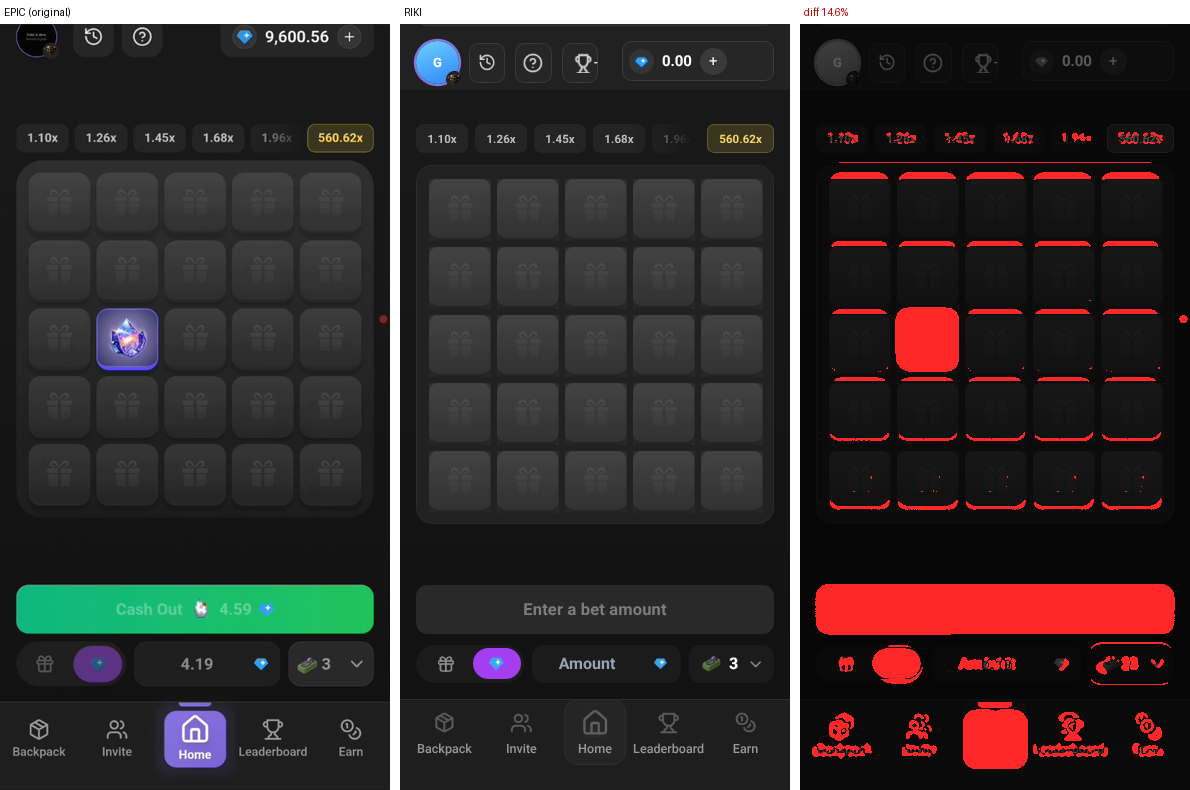
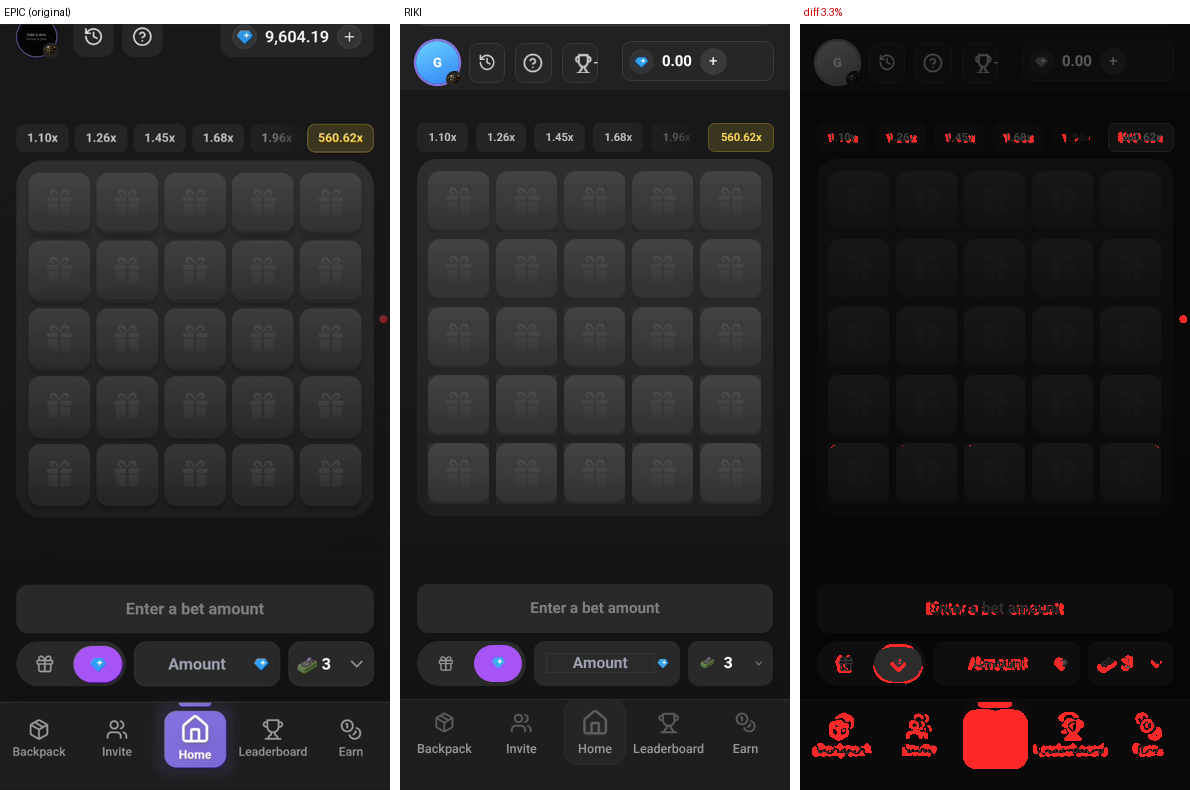
Mines UI 409.mp4 kadrlaridan qayta qurildi: plitkalar/kristal/mina/urilish PNG, qizil va yashil nur kadrlardan (piksel farqi), chiplar, tugma holatlari (Enter a bet amount → Tap a cell → Cashout 0.00 → Cash Out), katakka bosish raundni boshlaydi, minalar soni — tizim ro'yxati, urilish animatsiyasi k
Claude-Session: https://claude.ai/code/session_01849NscG7Rx8mj8t26y6oDr

diff --git a/js/screens.js b/js/screens.js
@@ -1340,7 +1340,7 @@ document.querySelectorAll('.demo').forEach(e => e.textContent = 'DEMO');
 // =====================================================================
 rkSetSkin(); rkResize(); netInit();
 setTimeout(() => $id('splash').classList.add('off'), 900);
-setTimeout(() => $id('splash').remove(), 1400);
+setTimeout(() => { const sp = $id('splash'); sp && sp.remove() }, 1400);
 renderTasks();
 setInterval(() => {
   const r = $id('tvRes');
@@ -1795,35 +1795,60 @@ function betBar3(key, extra, ph) {
 }
 const GBOX = '<svg viewBox="0 0 24 24" class="gbx"><path d="M3 9h18v4H3zM5 13h14v8H5zM12 9v12M12 9c-2-4-6-4-6-1.5S9 9 12 9zm0 0c2-4 6-4 6-1.5S15 9 12 9z" fill="none" stroke="currentColor" stroke-width="1.6" stroke-linejoin="round"/></svg>';
 const BOMBI = '<svg viewBox="0 0 24 24" width="20" height="20"><circle cx="10" cy="14" r="7" fill="#3f6212"/><circle cx="8" cy="12" r="2" fill="#a3e63566"/><path d="M14 8l3-3" stroke="#a16207" stroke-width="2.2" stroke-linecap="round"/><circle cx="18.5" cy="4" r="1.6" fill="#f97316"/></svg>';
+// MINES — har bir element 409.mp4 kadrlaridan: 62.5 s (bo'sh), 68.0 (miqdor kiritilgan), 69.6 (raund boshlandi), 70.2/72.0/75.6 (Cash Out),
+// 76.27–77.4 (mina: qizil), 81.0 (minalar soni — tizim ro'yxati), 84.5 (History), 88.8 (How it works); yutuq: frames/55 (desktop)
 sec('mines', `<div class="mn3-hid"><b id="m2Next"></b><b id="m2Prof"></b><b id="m2Left"></b><button id="m2Rand"></button><div id="m2N"></div></div>
-  <div class="mn2-chips mn3-chips" id="m2Chips"></div>
-  <div class="mn2-wrap mn3-wrap"><div class="mn2-board" id="m2Board">${Array.from({ length: 25 }, (_, i) => `<button class="t2" data-i="${i}"><span class="fr"><img class="mtile" src="assets/mines/tile_closed.png" alt="" draggable="false"></span><span class="bk"></span></button>`).join('')}</div><div class="mn2-win" id="m2Win"></div></div>
-  <div class="mn-dock"><button class="go3" id="m2Go">Enter a bet amount</button>
-  ${betBar3('mn', `<button class="mn2-dd" id="m2Dd"><img class="mbomb" src="assets/mines/ic_mine.png" alt=""><b id="m2DdN">3</b><img class="mchev" src="assets/ui/ic_chev.png" alt=""></button>`)}</div>`);
+  <div class="mx-chips" id="m2Chips"></div>
+  <div class="mx-card" id="m2Card"><img class="mx-glow r" src="assets/mines2/glow_red.png" alt=""><img class="mx-glow g" src="assets/mines2/glow_green.png" alt="">
+    <div class="mx-board" id="m2Board">${Array.from({ length: 25 }, (_, i) => `<button class="mx-t" data-i="${i}"><img class="c" src="assets/mines2/tile_closed.png" alt="" draggable="false"><img class="o" alt="" draggable="false"></button>`).join('')}</div>
+    <div class="mx-win" id="m2Win"></div></div>
+  <button class="mx-go" id="m2Go">Enter a bet amount</button>
+  <div class="mx-row" id="bb_mn"><div class="bbm mx-tog"><button data-m="gift"><img src="assets/ui/ic_gift_tog.png" alt=""></button><button data-m="ton" class="on"><img src="assets/ui/ic_gem_pill.png" alt=""></button></div>
+    <div class="mx-amt"><input id="bbA_mn" type="number" inputmode="decimal" placeholder="Amount" step="0.01"><div class="bbg" id="bbG_mn"></div><img class="g" src="assets/ui/ic_gem_sm.png" alt=""></div>
+    <label class="mx-sel" id="m2Dd"><img class="b" src="assets/mines/ic_mine.png" alt=""><b id="m2DdN">3</b><img class="v" src="assets/ui/ic_chev.png" alt=""><select id="m2Sel">${Array.from({ length: 24 }, (_, i) => `<option value="${i + 1}"${i === 2 ? ' selected' : ''}>${i + 1}</option>`).join('')}</select></label></div>`);
 function m2Render() {
   const k = M2.open.size, safe = 25 - M2.n;
   $id('m2Next').textContent = M2.on && k < safe ? m2Mul(k + 1).toFixed(2) + 'x' : m2Mul(1).toFixed(2) + 'x';
   $id('m2Prof').innerHTML = `${GEM}${fmt(M2.on && k ? M2.bet * m2Mul(k) - M2.bet : 0)}`;
   $id('m2Left').textContent = M2.on ? safe - k : safe;
-  const top = M2.n > 1 ? safe - 1 : safe;   // UNCLEAR: oltin chip qiymati (frames/52: n=3 → 560.62x = k21; frames/55: n=1 → 24.37x = k24)
-  let c = '<div class="mch-s">'; for (let i = 1; i < top; i++) c += `<span class="${M2.on && i === k + 1 ? 'cur' : M2.on && i <= k ? 'past' : ''}">${m2Mul(i).toFixed(2)}x</span>`; c += `</div><span class="max">${m2Mul(top).toFixed(2)}x</span>`;
-  $id('m2Chips').innerHTML = c; const cc = $('#m2Chips .cur'); if (cc) { const C = $('#m2Chips .mch-s'); C.scrollTo({ left: cc.offsetLeft - C.clientWidth / 2 + cc.offsetWidth / 2, behavior: 'smooth' }) }
-  const b = $id('m2Go');
-  if (M2.on) { if (k) { b.className = 'go3 grn'; b.innerHTML = `Cash Out ${GEM}${fmt(M2.bet * m2Mul(k))}` } else { b.className = 'go3 dim'; b.textContent = 'Pick a tile' } }
-  else { const v = BB.mn ? bbVal('mn') : 0; b.className = 'go3' + (v > 0 ? ' on' : ''); b.textContent = v > 0 ? 'Place Bet' : 'Enter a bet amount' }
-  $id('m2Rand').disabled = !M2.on; $id('m2Dd').classList.toggle('dis', M2.on);
-  $id('m2Board').classList.toggle('live', M2.on);
+  // chiplar (62.5/72.0): o'tganlar #676767, joriy — binafsha ramka, keyingilar #bebebe; o'ngda oltin chip
+  const top = M2.n > 1 ? safe - 1 : safe;   // UNCLEAR: oltin chip qiymati (n=3 → 560.62x = k21; n=1 → 24.37x = k24)
+  let c = '<div class="s">'; for (let i = 1; i < top; i++) c += `<span class="${(M2.on || M2.done) && i === k ? 'cur' : (M2.on || M2.done) && i < k ? 'past' : ''}">${m2Mul(i).toFixed(2)}x</span>`; c += `</div><span class="max">${m2Mul(top).toFixed(2)}x</span>`;
+  const C0 = $id('m2Chips'), sl = C0.firstChild ? C0.firstChild.scrollLeft : 0; C0.innerHTML = c; const S2 = C0.firstChild; S2.scrollLeft = sl;
+  // joriy chip — 3-o'ringa (75.6: 2 ta o'tgan chip chapda ko'rinadi)
+  const cc = S2.querySelector('.cur'); S2.scrollTo({ left: cc ? Math.max(0, cc.offsetLeft - 2 * 58.6) : 0, behavior: 'smooth' });
+  const b = $id('m2Go'), v = BB.mn ? bbVal('mn') : 0;
+  if (M2.boom) { b.className = 'mx-go'; b.textContent = '' }                                           // 76.3: bo'sh
+  else if (M2.on && k) { b.className = 'mx-go grn'; const g = byPriceGift(M2.bet * m2Mul(k)); b.innerHTML = `Cash Out ${g ? `<span class="gi">${GI(g)}</span>` : ''}${fmt(M2.bet * m2Mul(k))}<img class="g" src="assets/ui/ic_gem_sm.png" alt="">` }
+  else if (M2.on) { b.className = 'mx-go'; b.textContent = `Cashout 0.00 ${CUR}` }                    // 69.6
+  else { b.className = 'mx-go'; b.textContent = v > 0 ? 'Tap a cell to start the round' : 'Enter a bet amount' }   // 68.0 / 62.5
+  $id('bb_mn').classList.toggle('dis', !!M2.on);                                              // 69.6: pastki qator xira
+  $id('m2Rand').disabled = !M2.on;
 }
+function byPriceGift(v) { let best = null; for (const g of GIFTS) if (g.p <= v && (!best || g.p > best.p)) best = g; return best }
 function m2Flip(i, kind, dim) {
-  const t = $(`#m2Board .t2[data-i="${i}"]`); if (!t || t.classList.contains('rv')) return;
-  t.querySelector('.bk').innerHTML = kind === 'gem' ? GEMBIG : BOMB; t.classList.add('rv', kind); if (dim) t.classList.add('dim');
+  const t = $(`#m2Board .mx-t[data-i="${i}"]`); if (!t || t.classList.contains('rv')) return;
+  t.querySelector('.o').src = kind === 'gem' ? 'assets/mines2/tile_gem.png' : 'assets/mines2/tile_mine.png';
+  t.classList.add('rv', kind); if (dim) t.classList.add('dim');
 }
-function m2Reset() { $$('#m2Board .t2').forEach(t => { t.className = 't2'; t.querySelector('.bk').innerHTML = '' }); $id('m2Win').className = 'mn2-win' }
+function m2Reset() { $$('#m2Board .mx-t').forEach(t => { t.className = 'mx-t'; t.querySelector('.o').removeAttribute('src') }); $id('m2Win').className = 'mx-win'; $id('m2Card').className = 'mx-card'; M2.boom = false }
 function m2End(pay, mult) {
   M2.on = false; M2.done = true; M2.endAt = Date.now();
-  for (let i = 0; i < 25; i++) if (!M2.open.has(i)) setTimeout(() => m2Flip(i, M2.mines.has(i) ? 'bomb' : 'gem', true), 40 + (i % 5) * 30);
+  if (pay > 0) { for (const j of M2.mines) m2Flip(j, 'bomb'); M2.boom = true; setTimeout(() => { M2.boom = false; m2Render() }, 920) }   // frames/55: faqat minalar ochiladi, tugma bo'sh (UNCLEAR: davomiyligi — mina holatidagi 0.92 s olindi)
   if (M2.pf) { S.mh.unshift(Object.assign({}, M2.pf, { opened: M2.open.size, max: 25 - M2.n, pay, mult, pos: [...M2.mines] })); if (S.mh.length > 40) S.mh.length = 40; save(); M2.pf = null }
   m2Render();
+}
+// mina (409.mp4 76.27–77.42, 20 fps): urilgan katak qizil (+0), qolgan minalar shu kadrda ochiladi; +0.118 s qizil nur + oq chaqnash,
+// chaqnash +0.35 s gacha so'nadi; nur 2 to'lqin (cho'qqi .155, past .324, .47) va +0.92 s da o'chadi — taxta yopiladi
+function m2Boom(i) {
+  M2.boom = true; const t = $(`#m2Board .mx-t[data-i="${i}"]`);
+  t.querySelector('.o').src = 'assets/mines2/tile_hit0.png'; t.classList.add('rv', 'hit');
+  for (const j of M2.mines) if (j !== i) m2Flip(j, 'bomb');
+  hapN('error'); m2Render();
+  const card = $id('m2Card'); card.classList.remove('lose'); void card.offsetWidth; card.classList.add('lose');
+  setTimeout(() => { t.querySelector('.o').src = 'assets/mines2/tile_hit_flash.png' }, 118);   // 76.62: oq chaqnash
+  setTimeout(() => { t.querySelector('.o').src = 'assets/mines2/tile_hit.png' }, 230);           // 76.73: so'ngan
+  setTimeout(() => { M2.boom = false; m2Reset(); m2Render() }, 920);
 }
 function m2Start() {
   const a = bbTake('mn'); if (!a) return;
@@ -1833,37 +1858,38 @@ function m2Start() {
   M2.on = true; M2.lost = false; M2.bet = a; M2.open = new Set(); hap('medium'); m2Render();
 }
 function m2Pick(i) {
-  if (!M2.on || M2.open.has(i)) return; M2.open.add(i); const t = $(`#m2Board .t2[data-i="${i}"]`);
+  if (!M2.on || M2.open.has(i)) return; M2.open.add(i);
   if (M2.mines.has(i)) {
-    M2.on = false; M2.lost = true;   // BOMBA: raund darhol tugaydi — animatsiya paytida Cash Out bosib bo'lmaydi
-    m2Flip(i, 'bomb'); burst(t, ['#ef4444', '#f97316', '#fde047'], 18); hapN('error');
-    const bd = $id('m2Board'); bd.classList.remove('shake'); void bd.offsetWidth; bd.classList.add('shake');
-    logGame('Mines', M2.bet, 0, '💣'); setTimeout(() => m2End(0, 0), 350); return;
+    M2.on = false; M2.lost = true;
+    logGame('Mines', M2.bet, 0, '💣'); m2End(0, 0); m2Boom(i); return;
   }
-  m2Flip(i, 'gem'); burst(t, ['#34d399', '#a7f3d0'], 8); hap();
+  m2Flip(i, 'gem'); hap();
   if (M2.open.size === 25 - M2.n) return m2Cash();
   m2Render();
 }
 function m2Cash() {
   if (!M2.on || M2.lost || !M2.open.size || [...M2.open].some(i => M2.mines.has(i))) return;
   const k = M2.open.size, m = m2Mul(k), w = r2(M2.bet * m); payWin(w, 'Mines'); logGame('Mines', M2.bet, w, k + ' gems'); hapN('success');
-  const W = $id('m2Win'); W.innerHTML = `<b>${m.toFixed(2)}x</b><span>${GEM}+${fmt(w)}</span>`; W.className = 'mn2-win on';
+  const W = $id('m2Win'); W.innerHTML = m2WinHTML(m, w, typeof mIts !== 'undefined' ? mIts : null); W.className = 'mx-win on'; $id('m2Card').classList.add('win');
   m2End(w, m);
 }
-$id('m2Board').onclick = e => { const t = e.target.closest('.t2'); if (t) m2Pick(+t.dataset.i) };
-$id('m2Go').onclick = () => {
-  if (M2.busy) return;
-  if (M2.on) { if (M2.open.size && !M2.lost) m2Cash(); return }
-  if (M2.lost && !M2.done) return;                 // bomba animatsiyasi tugashini kutamiz
-  if (Date.now() - (M2.endAt || 0) < 450) return;  // tasodifiy ikki marta bosish
-  m2Start();
+// yutuq qutisi (frames/55): "2.43X", chiziq, sovg'a rasmi, nomi, qiymat (yashil pill)
+function m2WinHTML(m, w, its) {
+  const it = its && its[0], g = it ? GIFTS[it.g] : null;
+  return `<b>${m.toFixed(2)}X</b><i></i>${g ? `<span class="gi2">${GI(g)}</span><small>${esc(g.n)}</small>` : ''}<em><img src="assets/ui/ic_gem_sm.png" alt="">${fmt(it ? it.v : w)}</em>`;
+}
+$id('m2Board').onclick = async e => {   // 68.0→69.6: katakka bosish raundni boshlaydi
+  const t = e.target.closest('.mx-t'); if (!t || M2.boom || M2.busy) return; const i = +t.dataset.i;
+  if (!M2.on) { if (!(BB.mn && bbVal('mn') > 0)) { const A = $id('bbA_mn'); A.focus(); return } if (M2.done) m2Reset(); await m2Start(); if (!M2.on) return }
+  m2Pick(i);
 };
+$id('m2Go').onclick = () => { if (M2.busy || M2.boom) return; if (M2.on && M2.open.size && !M2.lost) m2Cash() };   // tugma faqat Cash Out
 $id('m2Rand').onclick = () => { if (!M2.on) return; const free = [...Array(25).keys()].filter(i => !M2.open.has(i)); if (free.length) m2Pick(pick(free)) };
-document.body.insertAdjacentHTML('beforeend', `<div class="modal sheet2" id="mnSh"><div class="mbox"><div class="mhead"><span>Number of mines</span><button class="mx" data-close>✕</button></div><div class="mbody"><div class="mnl" id="mnL">${Array.from({ length: 24 }, (_, i) => `<button data-n="${i + 1}"><span>${i + 1}</span><i></i></button>`).join('')}</div></div></div></div>`);
-window.RIKI_M2 = { st: () => M2, setN: n => m2SetN(n) };   // testlar uchun
-function m2SetN(n) { M2.n = n; $id('m2DdN').textContent = n; $$('#mnL button').forEach(x => x.classList.toggle('on', +x.dataset.n === n)); if (M2.done) { m2Reset(); M2.done = false } m2Render() }
-$id('m2Dd').onclick = () => { if (M2.on) return toast('Finish the current round first'); m2SetN(M2.n); openM('mnSh'); setTimeout(() => { const b = $('#mnL button.on'); b && b.scrollIntoView({ block: 'center' }) }, 60) };
-$id('mnL').onclick = e => { const b = e.target.closest('[data-n]'); if (!b) return; hap(); m2SetN(+b.dataset.n); setTimeout(() => closeM('mnSh'), 150) };
+// minalar soni — tizimning tanlash ro'yxati (81.0 s), shuning uchun oddiy <select>
+window.RIKI_M2 = { st: () => M2, setN: n => m2SetN(n), render: () => m2Render(), boom: i => m2Boom(i) };   // testlar uchun
+function m2SetN(n) { M2.n = n; $id('m2DdN').textContent = n; $id('m2Sel').value = n; if (M2.done) { m2Reset(); M2.done = false } m2Render() }
+$id('m2Sel').onchange = e => { if (M2.on) { e.target.value = M2.n; return } hap(); m2SetN(+e.target.value) };
+$id('bbA_mn').addEventListener('focus', () => $id('m2Card').classList.add('foc')); $id('bbA_mn').addEventListener('blur', () => $id('m2Card').classList.remove('foc'));   // 68.0: taxta xiralashadi
 bbInit('mn', () => { if (!M2.on) m2Render() });
 ENTER.mines = m2Render;
 
@@ -2499,16 +2525,15 @@ m2Start = async function () {
 };
 m2Pick = async function (i) {
   if (!wOn()) return _m2Pick(i); if (!M2.on || M2.open.has(i) || M2.busy) return;
-  M2.busy = true; const t = $(`#m2Board .t2[data-i="${i}"]`); t && t.classList.add('pend');
+  M2.busy = true; const t = $(`#m2Board .mx-t[data-i="${i}"]`); t && t.classList.add('pend');
   const r = await gPlay('mines/pick', { i }); M2.busy = false; t && t.classList.remove('pend'); if (!r) return;
   M2.open.add(i);
   if (!r.gem) {
     M2.on = false; M2.lost = true;
-    M2.mines = new Set(r.mines); m2Flip(i, 'bomb'); burst(t, ['#ef4444', '#f97316', '#fde047'], 18); hapN('error');
-    const bd = $id('m2Board'); bd.classList.remove('shake'); void bd.offsetWidth; bd.classList.add('shake');
-    gFinish(r, 'Mines', true); logGame('Mines', M2.bet, 0, '💣'); setTimeout(() => m2End(0, 0), 350); return;
+    M2.mines = new Set(r.mines);
+    gFinish(r, 'Mines', true); logGame('Mines', M2.bet, 0, '💣'); m2End(0, 0); m2Boom(i); return;
   }
-  m2Flip(i, 'gem'); burst(t, ['#34d399', '#a7f3d0'], 8); hap();
+  m2Flip(i, 'gem'); hap();
   if (r.end) return m2Done(r);
   m2Render();
 };
@@ -2518,12 +2543,16 @@ m2Cash = async function () {
 };
 function m2Done(r) {
   M2.mines = new Set(r.mines); const w = r.pay, m = r.mult;
-  const mIts = gFinish(r, 'Mines', true); logGame('Mines', M2.bet, w, M2.open.size + ' gems'); hapN('success'); winFx('Mines', r.cash, mIts);
-  const W = $id('m2Win'); W.innerHTML = `<b>${m.toFixed(2)}x</b><span>${GEM}+${fmt(w)}</span>`; W.className = 'mn2-win on';
+  const mIts = gFinish(r, 'Mines', true); logGame('Mines', M2.bet, w, M2.open.size + ' gems'); hapN('success');
+  const W = $id('m2Win'); W.innerHTML = m2WinHTML(m, w, typeof mIts !== 'undefined' ? mIts : null); W.className = 'mx-win on'; $id('m2Card').classList.add('win');
   m2End(w, m);
 }
-$id('m2Board').onclick = e => { const t = e.target.closest('.t2'); if (t) m2Pick(+t.dataset.i) };
-$id('m2Go').onclick = () => { if (M2.on) { if (M2.open.size) m2Cash(); return } m2Start() };
+$id('m2Board').onclick = async e => {   // 68.0→69.6: katakka bosish raundni boshlaydi
+  const t = e.target.closest('.mx-t'); if (!t || M2.boom || M2.busy) return; const i = +t.dataset.i;
+  if (!M2.on) { if (!(BB.mn && bbVal('mn') > 0)) { const A = $id('bbA_mn'); A.focus(); return } if (M2.done) m2Reset(); await m2Start(); if (!M2.on) return }
+  m2Pick(i);
+};
+$id('m2Go').onclick = () => { if (M2.busy || M2.boom) return; if (M2.on && M2.open.size) m2Cash() };
 $id('m2Rand').onclick = () => { if (!M2.on) return; const free = [...Array(25).keys()].filter(i => !M2.open.has(i)); if (free.length) m2Pick(pick(free)) };
 async function gSyncState() {   // ochiq Mines raundi va free spins — serverdan (boshqa telefondan boshlangan bo'lsa ham)
   if (!wOn()) return;

diff --git a/css/mines.css b/css/mines.css
@@ -1,0 +1,67 @@
+/* MINES — 409.mp4 kadrlaridan (588 px → 390 css, K = 0.6633; sahifa yuqorisi = kadr y 122). Har qiymat yonida manba kadr. */
+#mines.on{display:block!important;padding:0 15.9px!important;min-height:calc(100vh - 65.7px - 90.1px);background:linear-gradient(#181818 0,#181818 260px,#131313 560px)!important}
+#mines .mn3-hid{display:none!important}
+/* chiplar — y 273–316 (62.5), x 26 + 88.4·n, kenglik 76; oltin x 464–563 */
+#mines .mx-chips{position:relative;margin-top:33.8px;height:28.5px;display:flex;align-items:center}
+#mines .mx-chips .s{display:flex;gap:8.2px;overflow-x:auto;scrollbar-width:none;width:286px;padding-left:1.3px;-webkit-mask-image:linear-gradient(90deg,#000 0,#000 72%,transparent 100%);mask-image:linear-gradient(90deg,#000 0,#000 72%,transparent 100%)}
+#mines .mx-chips .s::-webkit-scrollbar{display:none}
+#mines .mx-chips span{flex:none;width:50.4px;height:28.5px;box-sizing:border-box;border-radius:6.6px;background:#242424;border:1px solid transparent;display:grid;place-items:center;font-size:11.3px;font-weight:700;color:#bebebe;letter-spacing:-.1px}
+#mines .mx-chips span.past{color:#676767}
+#mines .mx-chips span.cur{background:#2d293f;border-color:#605685;color:#8975de}
+#mines .mx-chips .max{position:absolute;right:0;top:0;width:65.7px;background:#3a351f;border-color:#665825;color:#f5d456}
+/* karta — x 25–563, y 327–866 (356.9 × 357.5), r ≈20, fon #2e2e2e → #1e1e1e */
+#mines .mx-card{position:relative;margin-top:6.9px;margin-left:.7px;width:356.9px;height:357.5px;border-radius:20px;background:linear-gradient(#2e2e2e,#1e1e1e);transition:filter .15s linear}
+#mines .mx-card.foc .mx-board{filter:brightness(.38)}                 /* 68.0: maydon fokusda — taxta 0.38 */
+#mines .mx-card.foc{background:linear-gradient(#121212,#0b0b0b)}
+#mines .mx-board{position:absolute;left:11.9px;top:12.6px;display:grid;grid-template-columns:repeat(5,61px);grid-auto-rows:61px;gap:6.9px}   /* plitka 92 px, qadam 102.4 */
+#mines .mx-t{position:relative;width:61px;height:61px;padding:0;border:0;background:none;border-radius:0;box-shadow:none}
+#mines .mx-t img{position:absolute;inset:0;width:100%;height:100%;display:block;pointer-events:none}
+#mines .mx-t .o{opacity:0}
+#mines .mx-t.rv .o{opacity:1}
+#mines .mx-t.rv .c{opacity:0}
+#mines .mx-t.gem .o{animation:mxRv .1s linear}                        /* 69.70→69.75: 1 kadr nuqta, keyingi kadrda to'liq */
+@keyframes mxRv{0%{transform:scale(.9);opacity:.6}100%{transform:scale(1);opacity:1}}
+#mines .mx-t.pend{filter:brightness(1.15)}
+#mines .mx-t:active:not(.rv){transform:scale(.96)}
+/* nur qatlamlari: karta ±30 kadr px (19.9 css) */
+#mines .mx-glow{position:absolute;left:-19.9px;top:-19.9px;width:393.3px;height:397.3px;pointer-events:none;opacity:0;z-index:3}
+#mines .mx-card.lose .mx-glow.r{animation:mxRed .92s linear forwards}
+@keyframes mxRed{0%{opacity:0}9.8%{opacity:0}12.8%{opacity:.97}16.8%{opacity:1}19.6%{opacity:.875}23.9%{opacity:.79}26.7%{opacity:.69}31%{opacity:.61}35.2%{opacity:.59}39.9%{opacity:.7}44.2%{opacity:.78}47%{opacity:.84}51.1%{opacity:.87}55.2%{opacity:.86}64%{opacity:.82}73%{opacity:.8}84%{opacity:.77}99.9%{opacity:.75}100%{opacity:0}}
+#mines .mx-card.win .mx-glow.g{opacity:1;transition:opacity .2s linear}
+/* yutuq qutisi — frames/55 (desktop ×0.784): 200 × 233.6, chegara yashil, markazda */
+#mines .mx-win{position:absolute;left:50%;top:50%;width:200px;height:233.6px;margin:-116.8px 0 0 -100px;box-sizing:border-box;border:1.5px solid #3ad46a;border-radius:15.7px;background:rgba(14,44,25,.55);display:none;flex-direction:column;align-items:center;z-index:4}
+#mines .mx-win.on{display:flex;animation:mxWin .25s ease-out}
+@keyframes mxWin{from{transform:scale(.85);opacity:0}to{transform:scale(1);opacity:1}}
+#mines .mx-win b{margin-top:22px;font-size:31px;font-weight:700;color:#fff;line-height:1}
+#mines .mx-win i{width:172px;height:1.5px;margin-top:16px;background:#3ad46a;opacity:.55}
+#mines .mx-win .gi2{margin-top:14px;width:58px;height:58px}
+#mines .mx-win .gi2 .gi-wrap{width:58px;height:58px}
+#mines .mx-win small{margin-top:10px;font-size:11px;font-weight:700;color:#fff}
+#mines .mx-win em{margin-top:6px;height:25px;padding:0 8px;border-radius:7px;background:#2c7d4c;display:flex;align-items:center;gap:4px;font-style:normal;font-size:14px;font-weight:700;color:#fff}
+#mines .mx-win em img{width:13px}
+/* tugma — y 967–1041 (49.1), r 11.3, #292929, matn #808080 */
+#mines .mx-go{display:flex;align-items:center;justify-content:center;gap:6px;width:356.9px;margin:67.3px 0 0 .7px;height:49.1px;border-radius:11.3px;border:0;background:#292929;color:#808080;font-size:15.2px;font-weight:700;transition:transform .08s linear}
+#mines .mx-go.grn{background:linear-gradient(90deg,#0fb87d,#20c35e);color:#fff}   /* 70.2 */
+#mines .mx-go.grn:active{transform:scale(.98)}
+#mines .mx-go .gi{width:21px;height:21px;display:inline-block}
+#mines .mx-go .gi .gi-wrap{width:21px;height:21px}
+#mines .mx-go .g{width:13px;margin-left:1px}
+/* pastki qator — y 1053–1120 (44.4) */
+#mines .mx-row{display:flex;gap:8px;margin:8.4px 0 0 .7px;width:356.9px;height:44.4px;transition:opacity .15s linear}
+#mines .mx-row.dis{opacity:.55;pointer-events:none}                  /* 69.6: #292929 → #1e1e1e */
+#mines .mx-tog{flex:0 0 109.4px;height:44.4px;box-sizing:border-box;border-radius:22.2px;background:#292929;padding:3.6px 3.9px 3.6px 0;display:flex;gap:0}
+#mines .mx-tog button{flex:1;height:37.1px;border-radius:18.6px;display:grid;place-items:center;background:none;padding:0;box-shadow:none}
+#mines .mx-tog button[data-m="ton"]{flex:0 0 47.8px}
+#mines .mx-tog button.on{background:#a754f7}
+#mines .mx-tog [data-m="gift"] img{width:19.3px}
+#mines .mx-tog [data-m="ton"] img{width:17.3px}
+#mines .mx-amt{flex:0 0 146px;width:146px;max-width:146px;height:44.4px;box-sizing:border-box;border-radius:10px;background:#292929;display:flex;align-items:center;padding:0 10px 0 12px}
+#mines .mx-amt input{flex:1;min-width:0;width:0;background:none;border:0;outline:0;color:#fff;font-size:15.5px;font-weight:700;text-align:center;padding:0}
+#mines .mx-amt input::placeholder{color:#9da2af}
+#mines .mx-amt .g{width:15.3px;flex:none}
+#mines .mx-amt .bbg{display:none;flex:1}
+#mines .mx-sel{position:relative;flex:1 1 0;min-width:0;height:44.4px;box-sizing:border-box;border-radius:10px;background:#292929;display:flex;align-items:center;padding:0 9px 0 10.5px;gap:6.6px}
+#mines .mx-sel .b{width:18.6px}
+#mines .mx-sel b{font-size:15.5px;font-weight:800;color:#fff}
+#mines .mx-sel .v{width:10.6px;margin-left:auto}
+#mines .mx-sel select{position:absolute;inset:0;opacity:0;width:100%;height:100%;font-size:16px}

diff --git a/css/epic-1to1.css b/css/epic-1to1.css
@@ -38,35 +38,6 @@ nav button[data-go="home"]{flex:0 0 62.3px!important;background:#252525!importan
 #hTop img{width:20px!important;height:20px!important}
 #hTop b{font-size:13px;font-weight:700;color:#d2d2d2}
 #hPill .pill{height:39.8px!important;min-width:152px;border-radius:9.3px!important;background:#262626!important;border:1px solid #3b3b3b!important}
-/* --- MINES (telefon frames2/31_mines_cashout; skroll ofset 9.2 hisobga olingan) --- */
-#mines.on{padding:0 15.9px 0!important;display:flex!important;flex-direction:column}
-#mines .mn3-chips{display:flex!important;gap:6.6px!important;margin:43.7px 0 0!important;height:28.5px;overflow:visible!important;align-items:center}
-#mines .mch-s{display:flex;gap:6.6px;overflow-x:auto;scrollbar-width:none;flex:1;min-width:0;-webkit-mask-image:linear-gradient(90deg,#000 78%,transparent 99%);mask-image:linear-gradient(90deg,#000 78%,transparent 99%)}
-#mines .mch-s::-webkit-scrollbar{display:none}
-#mines .mn3-chips span{flex:none;width:52.4px;height:28.5px;padding:0!important;display:grid;place-items:center;border-radius:7.3px!important;background:#242424!important;border:0!important;font-size:11.5px!important;font-weight:700!important;color:#bcbcbc!important;box-shadow:none!important}
-#mines .mn3-chips span.past{color:#bcbcbc!important;background:#242424!important}
-#mines .mn3-chips span.cur{background:#242424!important;box-shadow:inset 0 0 0 1px #6d5bd0!important;color:#fff!important}
-#mines .mn3-chips span.max{width:67px;background:#3a351f!important;box-shadow:inset 0 0 0 1px #665825!important;color:#f3d662!important;margin-left:6.6px}
-#mines .mn3-wrap{margin-top:12.6px!important;width:358.2px!important;height:358.2px!important;padding:12.5px!important;border-radius:16px!important;background:#212121!important;border:1px solid #2b2b2b!important;box-shadow:none!important;box-sizing:border-box}
-#mines .mn2-board{width:auto!important;height:auto!important;display:grid!important;grid-template-columns:repeat(5,62px)!important;grid-auto-rows:62px!important;gap:6px!important}
-#mines .t2{width:62px!important;height:62px!important;padding:0!important;background:none!important;border:0!important;box-shadow:none!important;border-radius:0!important}
-#mines .t2 .fr{position:absolute;inset:0;background:none!important;border:0!important;box-shadow:none!important;border-radius:0!important}
-#mines .t2 .fr .mtile{width:62px;height:62px;display:block}
-#mines .mn-dock{margin-top:61px;margin-bottom:10px;display:flex;flex-direction:column;gap:11.3px;background:none;padding:0}
-#mines #m2Go{margin:0!important;height:49px!important;border-radius:11.3px!important;background:#292929!important;color:#7d7d7d!important;font-size:16.5px!important;font-weight:700!important}
-#mines .bb3{margin:0!important;gap:8.6px!important;height:37.8px;display:flex}
-#mines .bb3 .bbm{width:108px;height:37.8px;padding:3.3px!important;border-radius:18.9px!important;background:#1b1b1b!important;gap:0!important;flex:none;box-sizing:border-box}
-#mines .bb3 .bbm button{flex:1 1 auto!important;width:auto!important;height:31.2px!important;border-radius:15.6px!important;display:grid;place-items:center;background:none!important;box-shadow:none!important}
-#mines .bb3 .bbm button[data-m="ton"]{flex:0 0 48px!important}
-#mines .bb3 .bbm button.on{background:#a33ff1!important}
-#mines .bb3 .bbm .tgi{width:21px}#mines .bb3 .bbm .tgg{width:19px}
-#mines .bb3 .bbi{height:37.8px!important;border-radius:11.3px!important;background:#1b1b1b!important;border:0!important;flex:1;padding:0 12px!important;box-sizing:border-box}
-#mines .bb3 .bbi input{font-size:16px!important;text-align:center;color:#fff;background:none!important;border:0!important;box-shadow:none!important;outline:0;padding:0!important;width:100%}
-#mines .bb3 .bbi input::placeholder{color:#99a3b5!important;font-weight:700}
-#mines .bb3 .bbi .tgs{width:18px;display:block}
-#mines .bb3 .mn2-dd{width:85px;height:37.8px!important;border-radius:11.3px!important;background:#1b1b1b!important;border:0!important;display:flex;align-items:center;padding:0 10px!important;gap:5px;box-sizing:border-box}
-#mines .mbomb{width:25px}#mines .mchev{width:16px;margin-left:auto}
-#mines #m2DdN{font-size:16px;font-weight:800;color:#fff}
 /* --- PvP (frames2/18_pvp_place_bet_empty; K=390/588) --- */
 #pvp.on{padding:0 0 0!important;display:flex!important;flex-direction:column}
 #pvp .pvst:empty,#pvp.pv-empty .pvst{display:none!important}

diff --git a/css/style.css b/css/style.css
@@ -2582,8 +2582,6 @@ nav button[data-go="home"],nav button[data-go="home"].on{background:#242424!impo
 /* O'yinlarda pastki panel ekran pastida (frames/52 Mines, 63 Plinko, 67 Dice): panel pastki menyudan ~10 px yuqorida */
 .screen.dockpad.on{display:flex!important;flex-direction:column;min-height:calc(100vh - 54px - 71px)}
 .screen.dockpad.on>.dock{position:static!important;margin-top:auto!important;margin-bottom:10px!important}
-#mines.on #m2Go{margin-top:auto!important}
-#mines.on .bb3{margin-bottom:10px!important}
 #dice.on .dc3-b{margin-top:auto!important;margin-bottom:10px!important}
 /* Farm Box — 408.mp4 0:36–0:46 */
 .reel2 .tl.none{padding:0;overflow:hidden;background:none!important}

diff --git a/index.html b/index.html
@@ -18,6 +18,7 @@
 <link rel="stylesheet" href="css/epic-hub.css?v=20261127c">
 <link rel="stylesheet" href="css/epic-1to1.css?v=20261127c">
 <link rel="stylesheet" href="css/race.css?v=20261127c">
+<link rel="stylesheet" href="css/mines.css?v=20261127d">
 </head>
 <body>
 <svg width="0" height="0" style="position:absolute" aria-hidden="true"><defs>

diff --git a/tools/mines_art.py b/tools/mines_art.py
@@ -1,0 +1,80 @@
+# MINES san'ati — 409.mp4 62–89 s (telefon, 588 px) va frames/53,55 (desktop) kadrlaridan
+import numpy as np, cv2
+P = 'assets/mines2/'
+X = lambda c: int(round(43 + 102.4 * c)); Y = lambda r: int(round(346 + 102.4 * r))
+m62 = cv2.imread('frames4/m_62.5.png'); m70 = cv2.imread('frames4/m_70.2.png')
+cv2.imwrite(P + 'tile_closed.png', m62[Y(0):Y(0) + 92, X(0):X(0) + 92])           # 62.5 s
+cv2.imwrite(P + 'tile_gem.png', m70[Y(2):Y(2) + 92, X(1):X(1) + 92])              # 70.2 s
+b = lambda i: cv2.imread('/tmp/mf/b_%03d.png' % i).astype(float)                  # 75.8 s + kadrlar (y −300)
+yb = lambda r: Y(r) - 300
+C = np.array([0, 0, 243.])   # BGR — qizil qatlam rangi (o'lchangan)
+def untint(f, a): return np.clip((f - C * a) / (1 - a), 0, 255)
+cv2.imwrite(P + 'tile_hit0.png', b(13)[yb(3):yb(3) + 92, X(3):X(3) + 92])          # 76.27 s: qizil, nuqta
+cv2.imwrite(P + 'tile_mine.png', b(14)[yb(0):yb(0) + 92, X(0):X(0) + 92])          # 76.30 s: ochilgan mina
+cv2.imwrite(P + 'tile_hit_flash.png', untint(b(15)[yb(3):yb(3) + 92, X(3):X(3) + 92], .256))
+cv2.imwrite(P + 'tile_hit.png', untint(b(30)[yb(3):yb(3) + 92, X(3):X(3) + 92], .205))
+# qizil nur — b_015 (cho'qqi) va b_014 (nursiz, minalar ochilgan) piksel farqidan: a = 1 − G/G0 (ichkari), (R−24)/219 (tashqari)
+f = b(15); f0 = b(14)
+y0, y1, x0, x1 = 327 - 300 - 30, 866 - 300 + 30, 25 - 30, 563 + 30
+pad_t = -y0 if y0 < 0 else 0; pad_l = -x0 if x0 < 0 else 0
+F = f[max(0, y0):y1, max(0, x0):x1]; F0 = f0[max(0, y0):y1, max(0, x0):x1]
+a_out = np.clip((F[..., 2] - 24) / (243 - 24), 0, 1)
+a_in = np.clip(1 - F[..., 1] / np.maximum(F0[..., 1], 1), 0, 1)
+H, W = F.shape[:2]; yy, xx = np.mgrid[:H, :W]
+cx0, cy0 = 30 - pad_l, 30 - pad_t
+inside = (xx >= cx0 + 4) & (xx < cx0 + 534) & (yy >= cy0 + 4) & (yy < cy0 + 535)
+al = np.where(inside, a_in, a_out)
+hx, hy = X(3) - max(0, x0), Y(3) - 300 - max(0, y0)
+bad = np.zeros((H, W), np.uint8); bad[hy - 3:hy + 95, hx - 3:hx + 95] = 255
+bad |= ((F0.max(2) - F0.min(2)) > 40).astype(np.uint8) * 255 * inside      # rangli piksellar (mina/kristal) — ishonchsiz
+al8 = cv2.inpaint((al * 255).astype(np.uint8), cv2.dilate(bad, np.ones((5, 5), np.uint8)), 9, cv2.INPAINT_TELEA)
+al8 = cv2.medianBlur(al8, 5)
+full = np.zeros((H + pad_t, W + pad_l), np.uint8); full[pad_t:, pad_l:] = al8
+if pad_l: full[:, :pad_l] = full[:, pad_l:2 * pad_l][:, ::-1]
+if pad_t: full[:pad_t] = full[pad_t:2 * pad_t][::-1]
+out = np.zeros(full.shape + (4,)); out[..., 2] = 243; out[..., 3] = full
+out[:, -40:] = out[:, :40][:, ::-1]   # o'ng chetdagi sahifa nuqtasi (kadr x≈580) — chapdan ko'zgu
+cv2.imwrite(P + 'glow_red.png', out.astype(np.uint8))
+# yashil (yutuq) — frames/55 vs 53 (desktop): halo + ichki qatlam
+a53 = cv2.imread('frames/53_mines_cashout.png').astype(float); a55 = cv2.imread('frames/55_mines_win_243x.png').astype(float)
+G = np.array([80, 200, 20.])
+d = a55[150:850, 0:570]; base = a53[150:850, 0:570]
+al = np.clip((d[..., 1] - base[..., 1]) / np.maximum(G[1] - base[..., 1], 1), 0, 1)
+cv2.imwrite('/tmp/w/galpha.png', (al * 255).astype(np.uint8))
+print('green interior median', np.median(al[300:600, 300:500]))
+# --- yashil halo (frames/55 − frames/53), telefon geometriyasiga (glow_red bilan bir xil o'lcham) moslanadi
+a53 = cv2.imread('frames/53_mines_cashout.png').astype(float); a55 = cv2.imread('frames/55_mines_win_243x.png').astype(float)
+CG = np.array([88, 223, 18.])          # BGR — o'lchangan yashil (#12df58)
+mg = 30; bx0, by0, bx1, by1 = 22 - mg, 228 - mg, 562 + mg, 768 + mg
+base = np.zeros((by1 - by0, bx1 - bx0, 3)) + 24; out = base.copy()
+sx0 = max(0, bx0); sx1 = min(570, bx1)
+base[:, sx0 - bx0:sx1 - bx0] = a53[by0:by1, sx0:sx1]; out[:, sx0 - bx0:sx1 - bx0] = a55[by0:by1, sx0:sx1]
+al = np.clip((out[..., 1] - base[..., 1]) / np.maximum(CG[1] - base[..., 1], 1), 0, 1)
+sat_b = base.max(2) - base.min(2); bad = (sat_b > 12) | ((out[..., 0] - out[..., 2]) > 40) | (out.min(2) > 150)
+bad = cv2.dilate(bad.astype(np.uint8), np.ones((9, 9), np.uint8)) > 0
+al8 = (al * 255).astype(np.uint8); al8 = cv2.inpaint(al8, bad.astype(np.uint8) * 255, 15, cv2.INPAINT_TELEA)
+al8 = cv2.medianBlur(al8, 7)
+if sx0 > bx0: al8[:, :sx0 - bx0] = al8[:, (sx0 - bx0) * 2:sx0 - bx0:-1][:, :sx0 - bx0]
+if sx1 < bx1: al8[:, sx1 - bx0:] = al8[:, :bx1 - sx1][:, ::-1]
+g = np.zeros(al8.shape + (4,), np.uint8); g[..., :3] = CG; g[..., 3] = al8
+g = cv2.resize(g, (593, 596), interpolation=cv2.INTER_AREA)
+cv2.imwrite(P + 'glow_green.png', g)
+# ichki qism: kartaning chetidan masofaga bog'liq profil (chap chetdagi toza qator bo'yicha), markaz — doimiy
+row = 500 - by0
+prof = [al[row, mg + k] for k in range(0, 14)]
+center = float(np.median([al[row, x] for x in range(mg + 60, mg + 480) if not bad[row, x]] or [.34]))
+print('green edge profile', [round(p, 2) for p in prof[:16]], 'center', round(center, 3))
+H, W = al.shape; yy, xx = np.mgrid[:H, :W]
+inside = (xx >= mg) & (xx < W - mg) & (yy >= mg) & (yy < H - mg)
+dist = np.minimum.reduce([xx - mg, W - mg - 1 - xx, yy - mg, H - mg - 1 - yy])
+pa = np.array(prof + list(np.linspace(prof[-1], center, 10)) + [center] * 420)
+al2 = al8.astype(float) / 255
+al2[inside] = np.maximum(pa[np.clip(dist[inside], 0, 439)], center)
+# tashqi halo: chap tomondagi toza profil bilan simmetrik
+g = np.zeros(al2.shape + (4,), np.uint8); g[..., :3] = CG; g[..., 3] = (np.clip(al2, 0, 1) * 255).astype(np.uint8)
+g = cv2.resize(g, (593, 596), interpolation=cv2.INTER_AREA)
+cv2.imwrite(P + 'glow_green.png', g)
+# tepa halo — chiplar aralashgan; pastki halo ko'zgusi bilan almashtiriladi (ikkala rang)
+for nm in ('glow_red', 'glow_green'):
+    g = cv2.imread(P + nm + '.png', -1); m = int(round(30 * g.shape[0] / 596)) + 2
+    g[:m] = g[-m:][::-1]; cv2.imwrite(P + nm + '.png', g)

diff --git a/tools/compare.py b/tools/compare.py
@@ -39,7 +39,7 @@ async def main(names):
         for n in names:
             c = SC[n]; o = orig(c['frame'])
             pg = await br.new_page(viewport={'width': 390, 'height': o.height}, device_scale_factor=1)
-            errs = []; pg.on('pageerror', lambda e: errs.append(str(e)))
+            errs = []; pg.on('pageerror', lambda e: errs.append(str(e) + ' @ ' + (e.stack or '')[:300].replace(chr(10), ' | ')))
             await pg.route('**/*', lambda r: r.abort() if not r.request.url.startswith('http://localhost') else r.continue_())
             await pg.goto('http://localhost:8765/index.html'); await pg.wait_for_timeout(1200)
             await pg.add_style_tag(content='#offLv{display:none!important}*{caret-color:transparent!important}')
